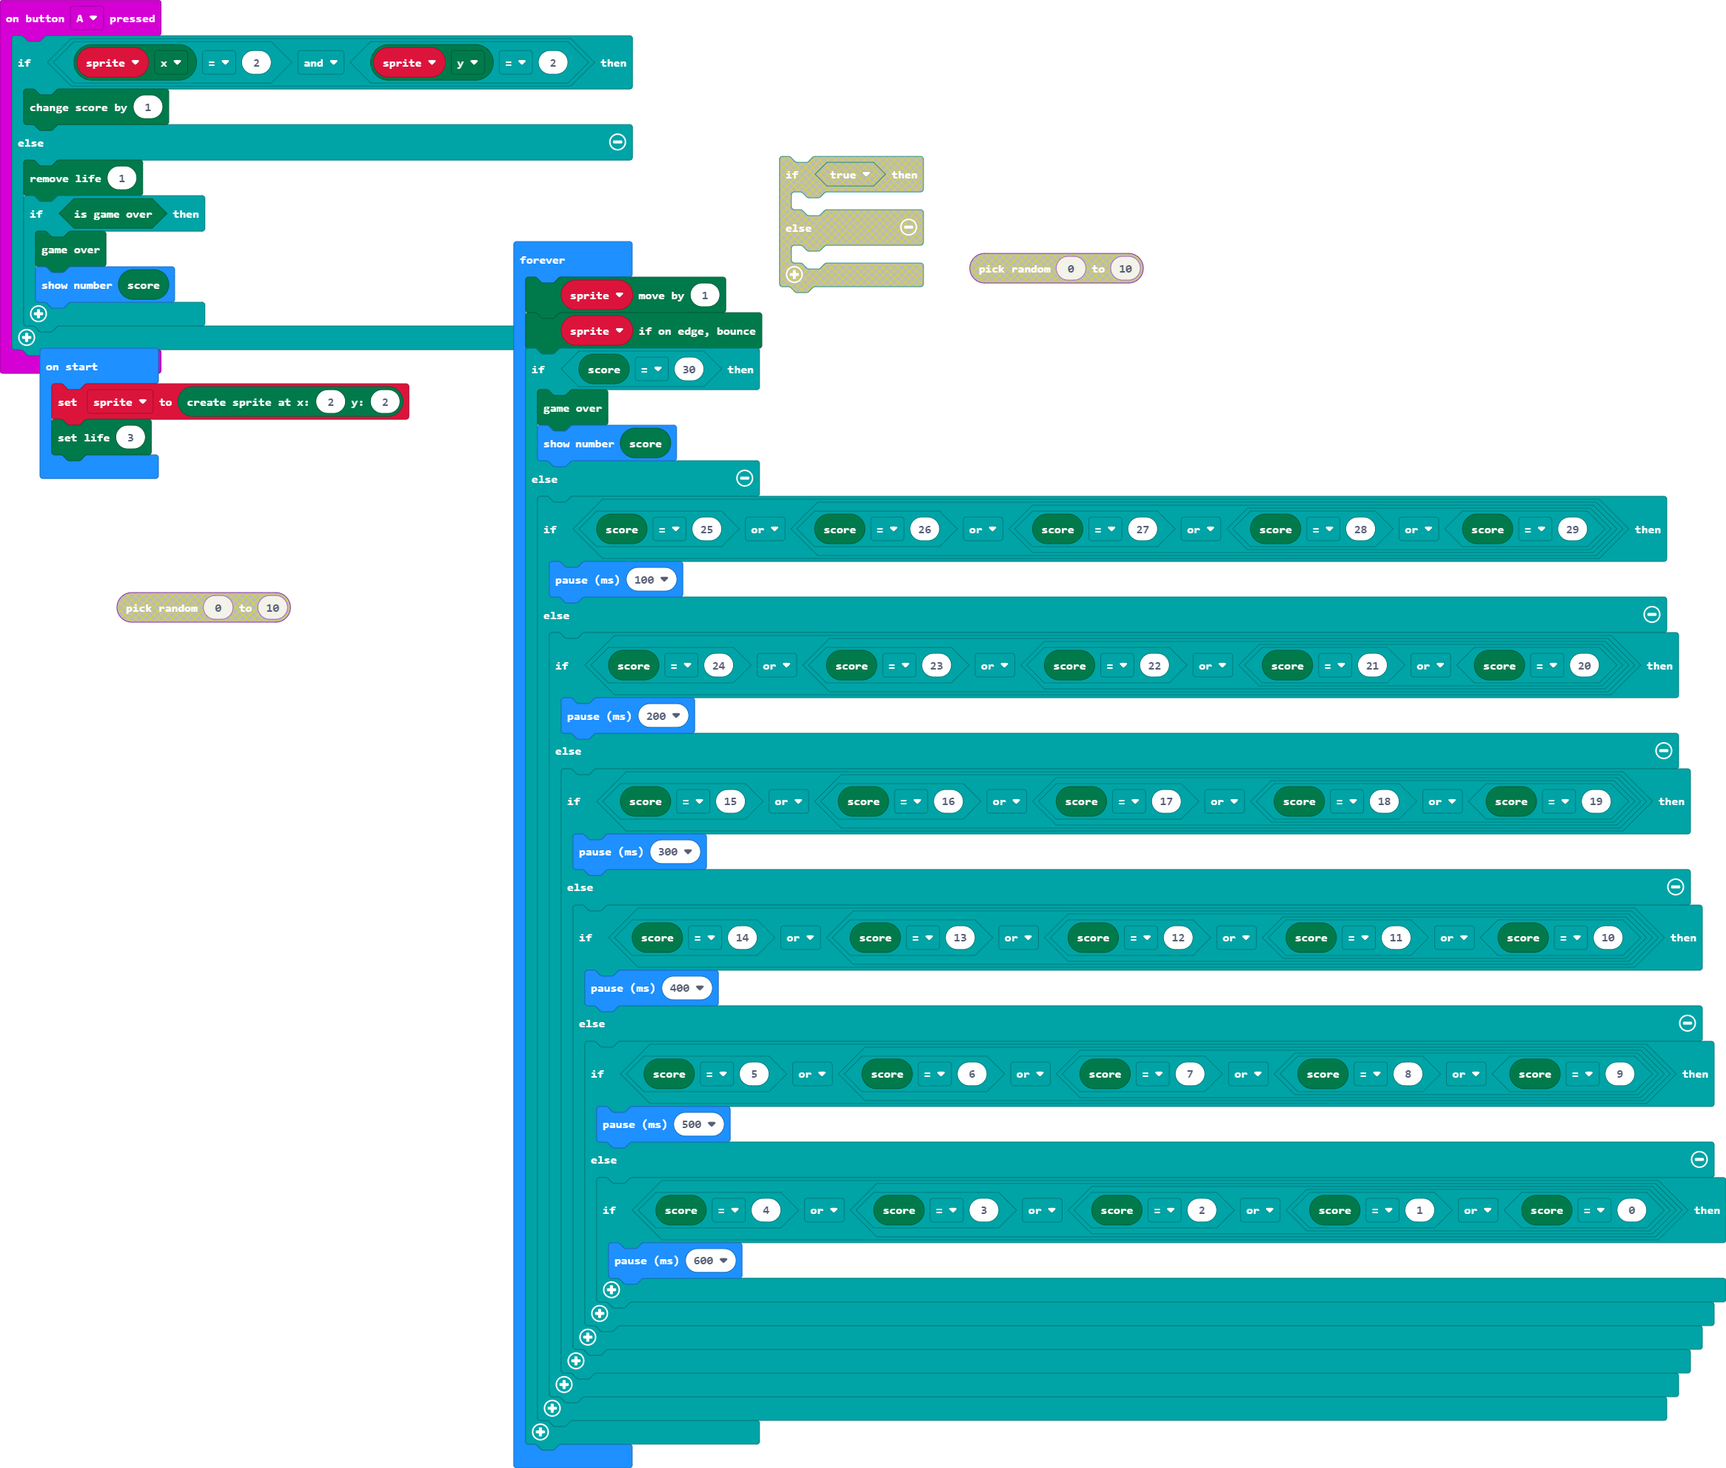
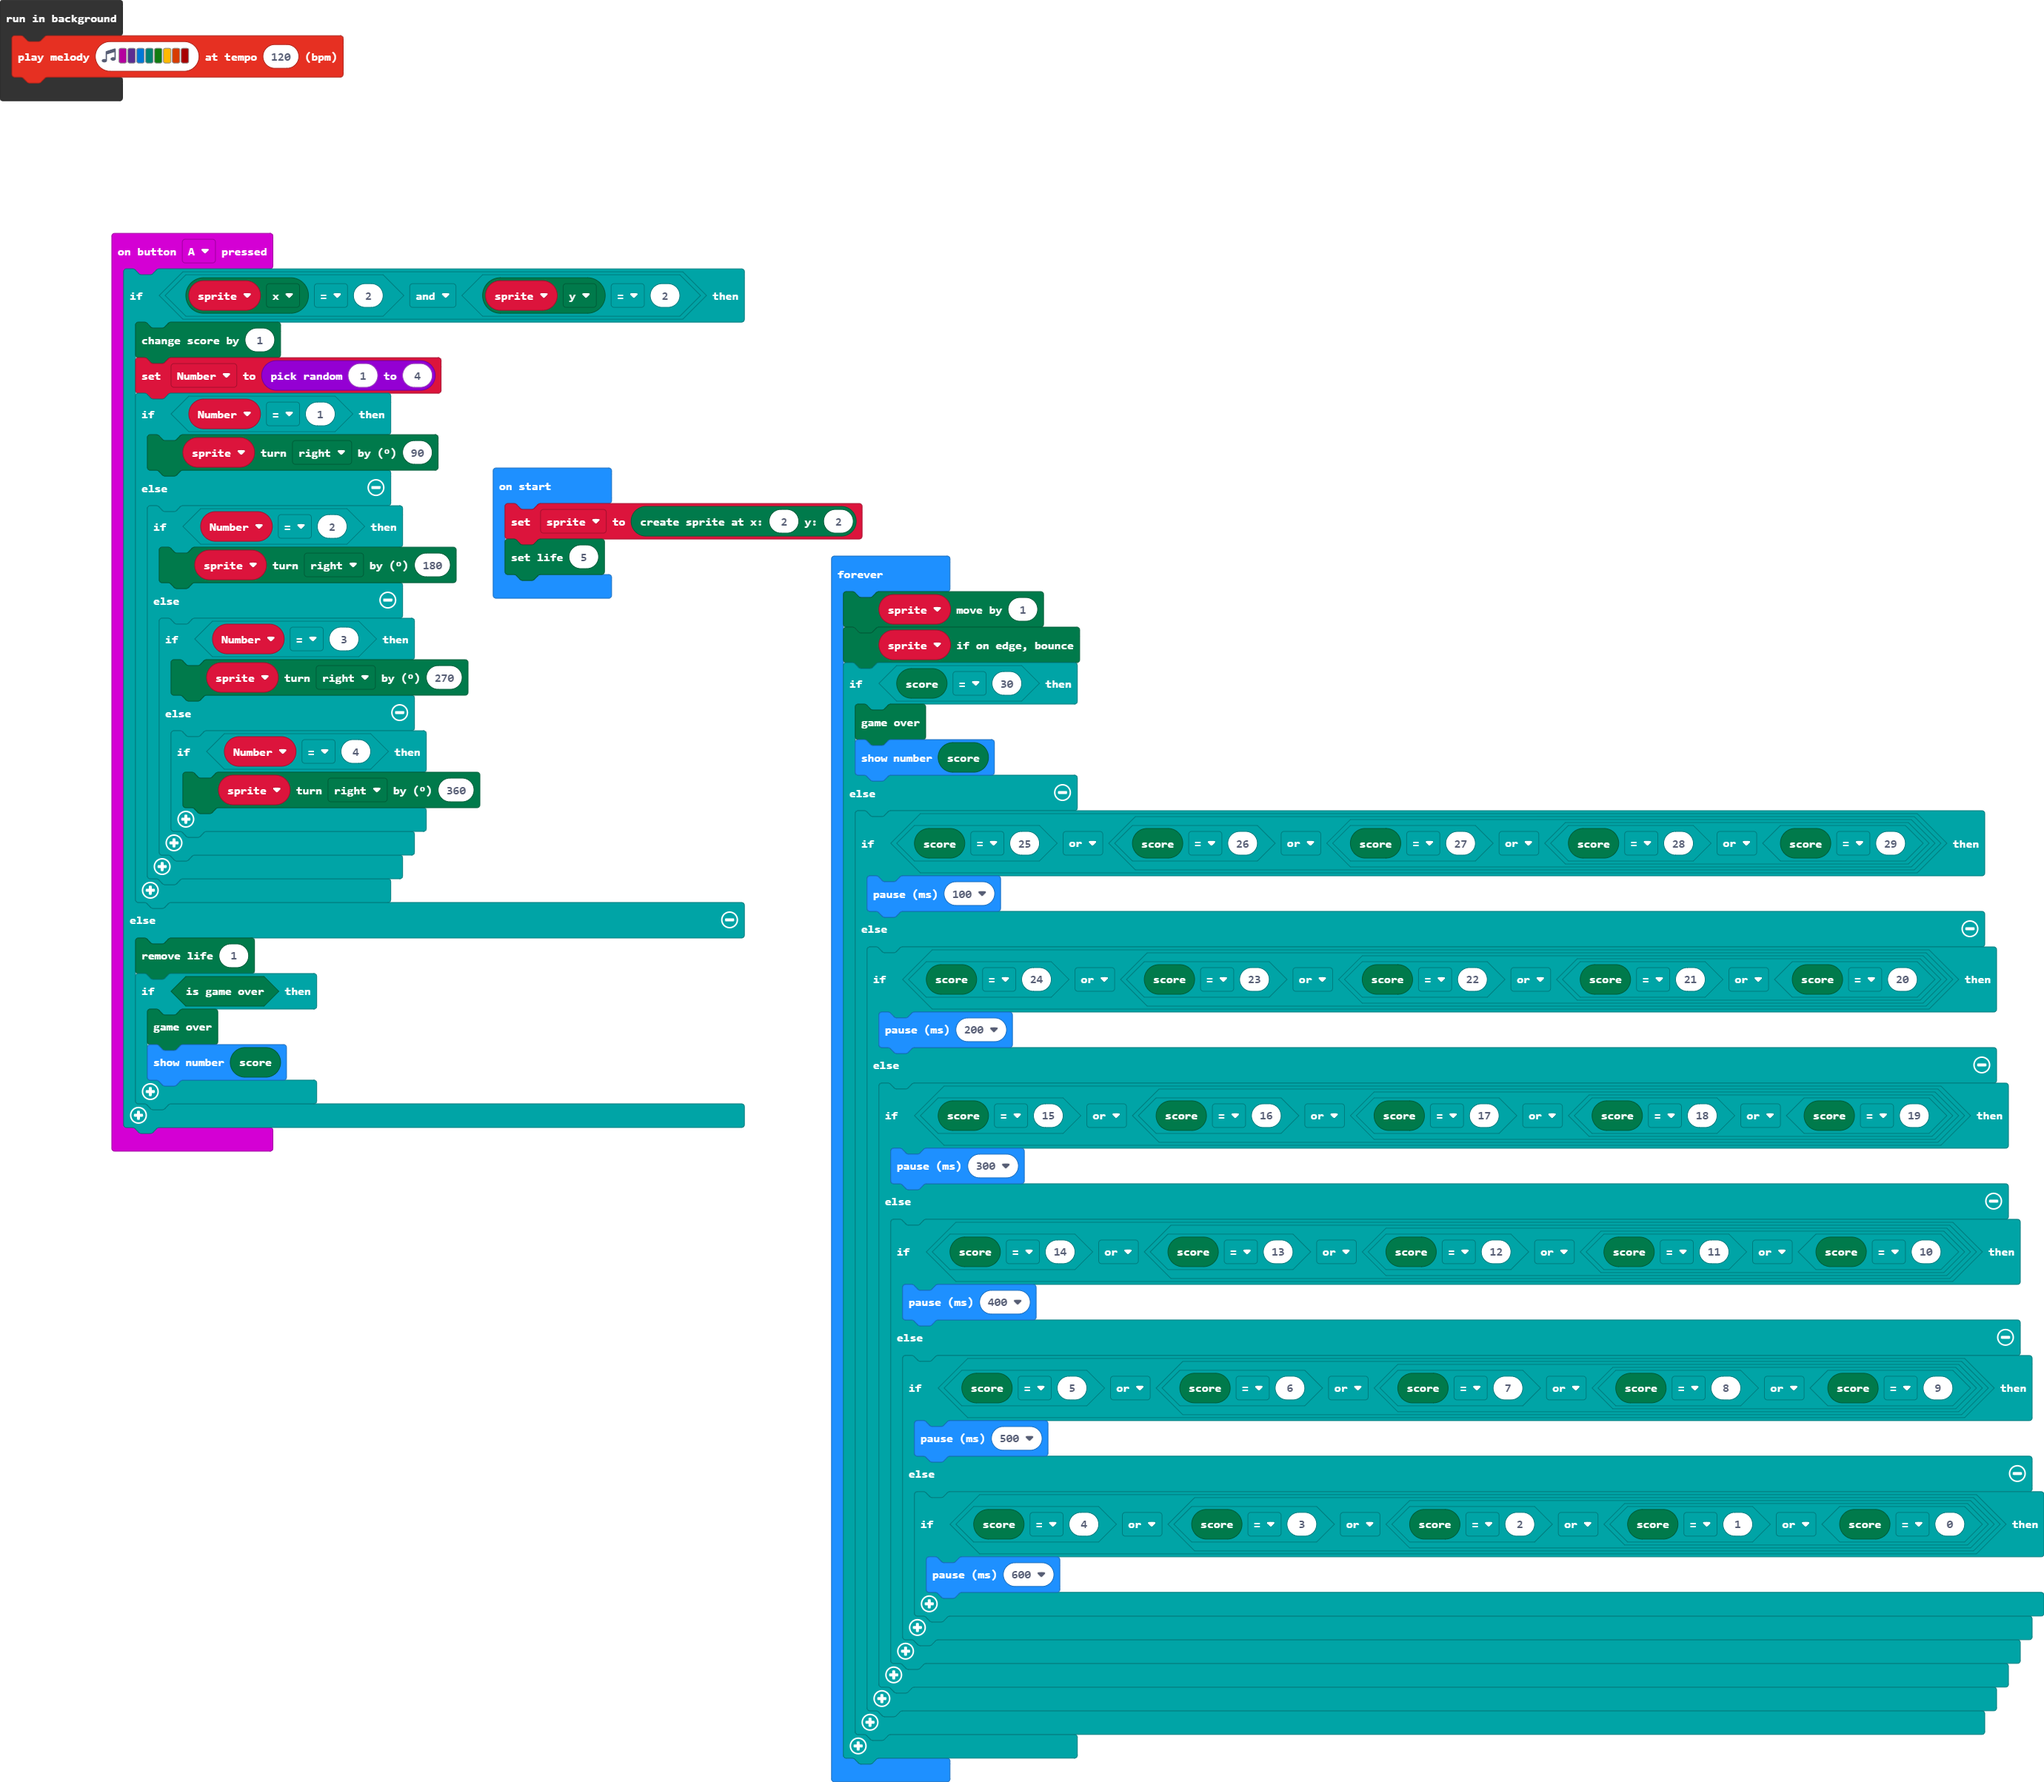
Update pxt.json, main.blocks, main.ts

diff --git a/main.ts b/main.ts
@@ -1,6 +1,22 @@
 input.onButtonPressed(Button.A, function () {
     if (sprite.get(LedSpriteProperty.X) == 2 && sprite.get(LedSpriteProperty.Y) == 2) {
         game.addScore(1)
+        Number2 = randint(1, 4)
+        if (Number2 == 1) {
+            sprite.turn(Direction.Right, 90)
+        } else {
+            if (Number2 == 2) {
+                sprite.turn(Direction.Right, 180)
+            } else {
+                if (Number2 == 3) {
+                    sprite.turn(Direction.Right, 270)
+                } else {
+                    if (Number2 == 4) {
+                        sprite.turn(Direction.Right, 360)
+                    }
+                }
+            }
+        }
     } else {
         game.removeLife(1)
         if (game.isGameOver()) {
@@ -9,9 +25,10 @@ input.onButtonPressed(Button.A, function () {
         }
     }
 })
+let Number2 = 0
 let sprite: game.LedSprite = null
 sprite = game.createSprite(2, 2)
-game.setLife(3)
+game.setLife(5)
 basic.forever(function () {
     sprite.move(1)
     sprite.ifOnEdgeBounce()
@@ -43,4 +60,7 @@ basic.forever(function () {
             }
         }
     }
+})
+control.inBackground(function () {
+    music.playMelody("C D E F G A B C5 ", 120)
 })
